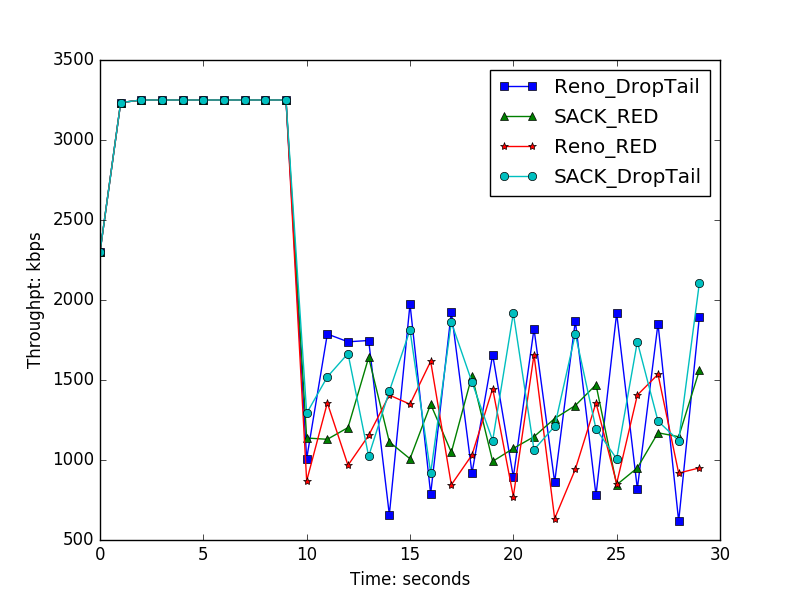
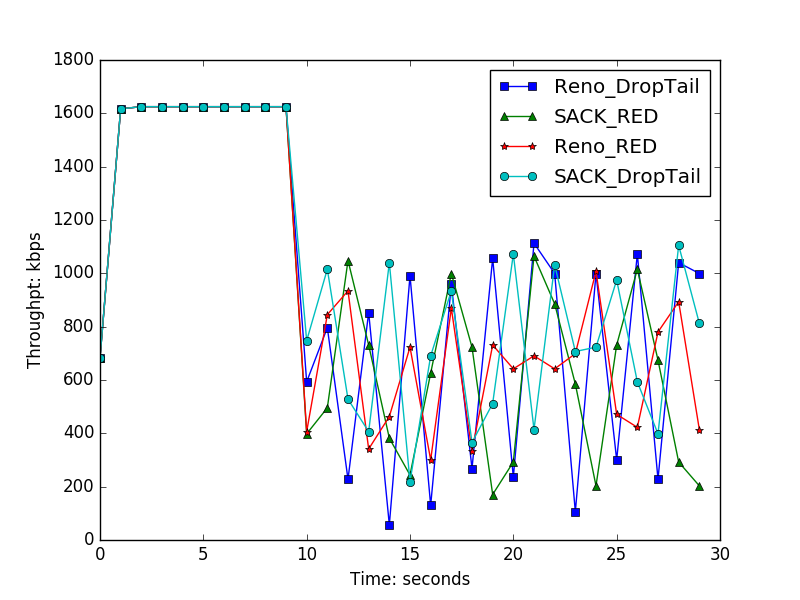
try to use smaller segaments in exp3

diff --git a/p3/exp3/run_exp3.py b/p3/exp3/run_exp3.py
@@ -20,6 +20,7 @@ def statistic(fname, duration):
     drop = []
     for i in range(duration):
         send[i] = recv[i] = total_rtt[i] = 0
+        send[i+0.5] = recv[i+0.5] = total_rtt[i+0.5] = 0
     for l in lines:
         fields = l.split()
         action = fields[0]
@@ -29,12 +30,15 @@ def statistic(fname, duration):
         packetType = fields[4]
         seq = fields[10]
 
+        time_int = int(time)
+        if time - time_int > 0.5:
+            timeSlot = time_int + 0.5
+        else:
+            timeSlot = time_int
         if action == '+' and source == '0':
-            timeSlot = int(float(time))
             window[seq] = time
             send[timeSlot] += 1
         elif action == 'r' and dest == '0' and packetType == 'ack' and seq in window:
-            timeSlot = int(float(fields[1]))
             recv[timeSlot] += 1
             total_rtt[timeSlot] += time - window[seq]
             window.pop(seq)
